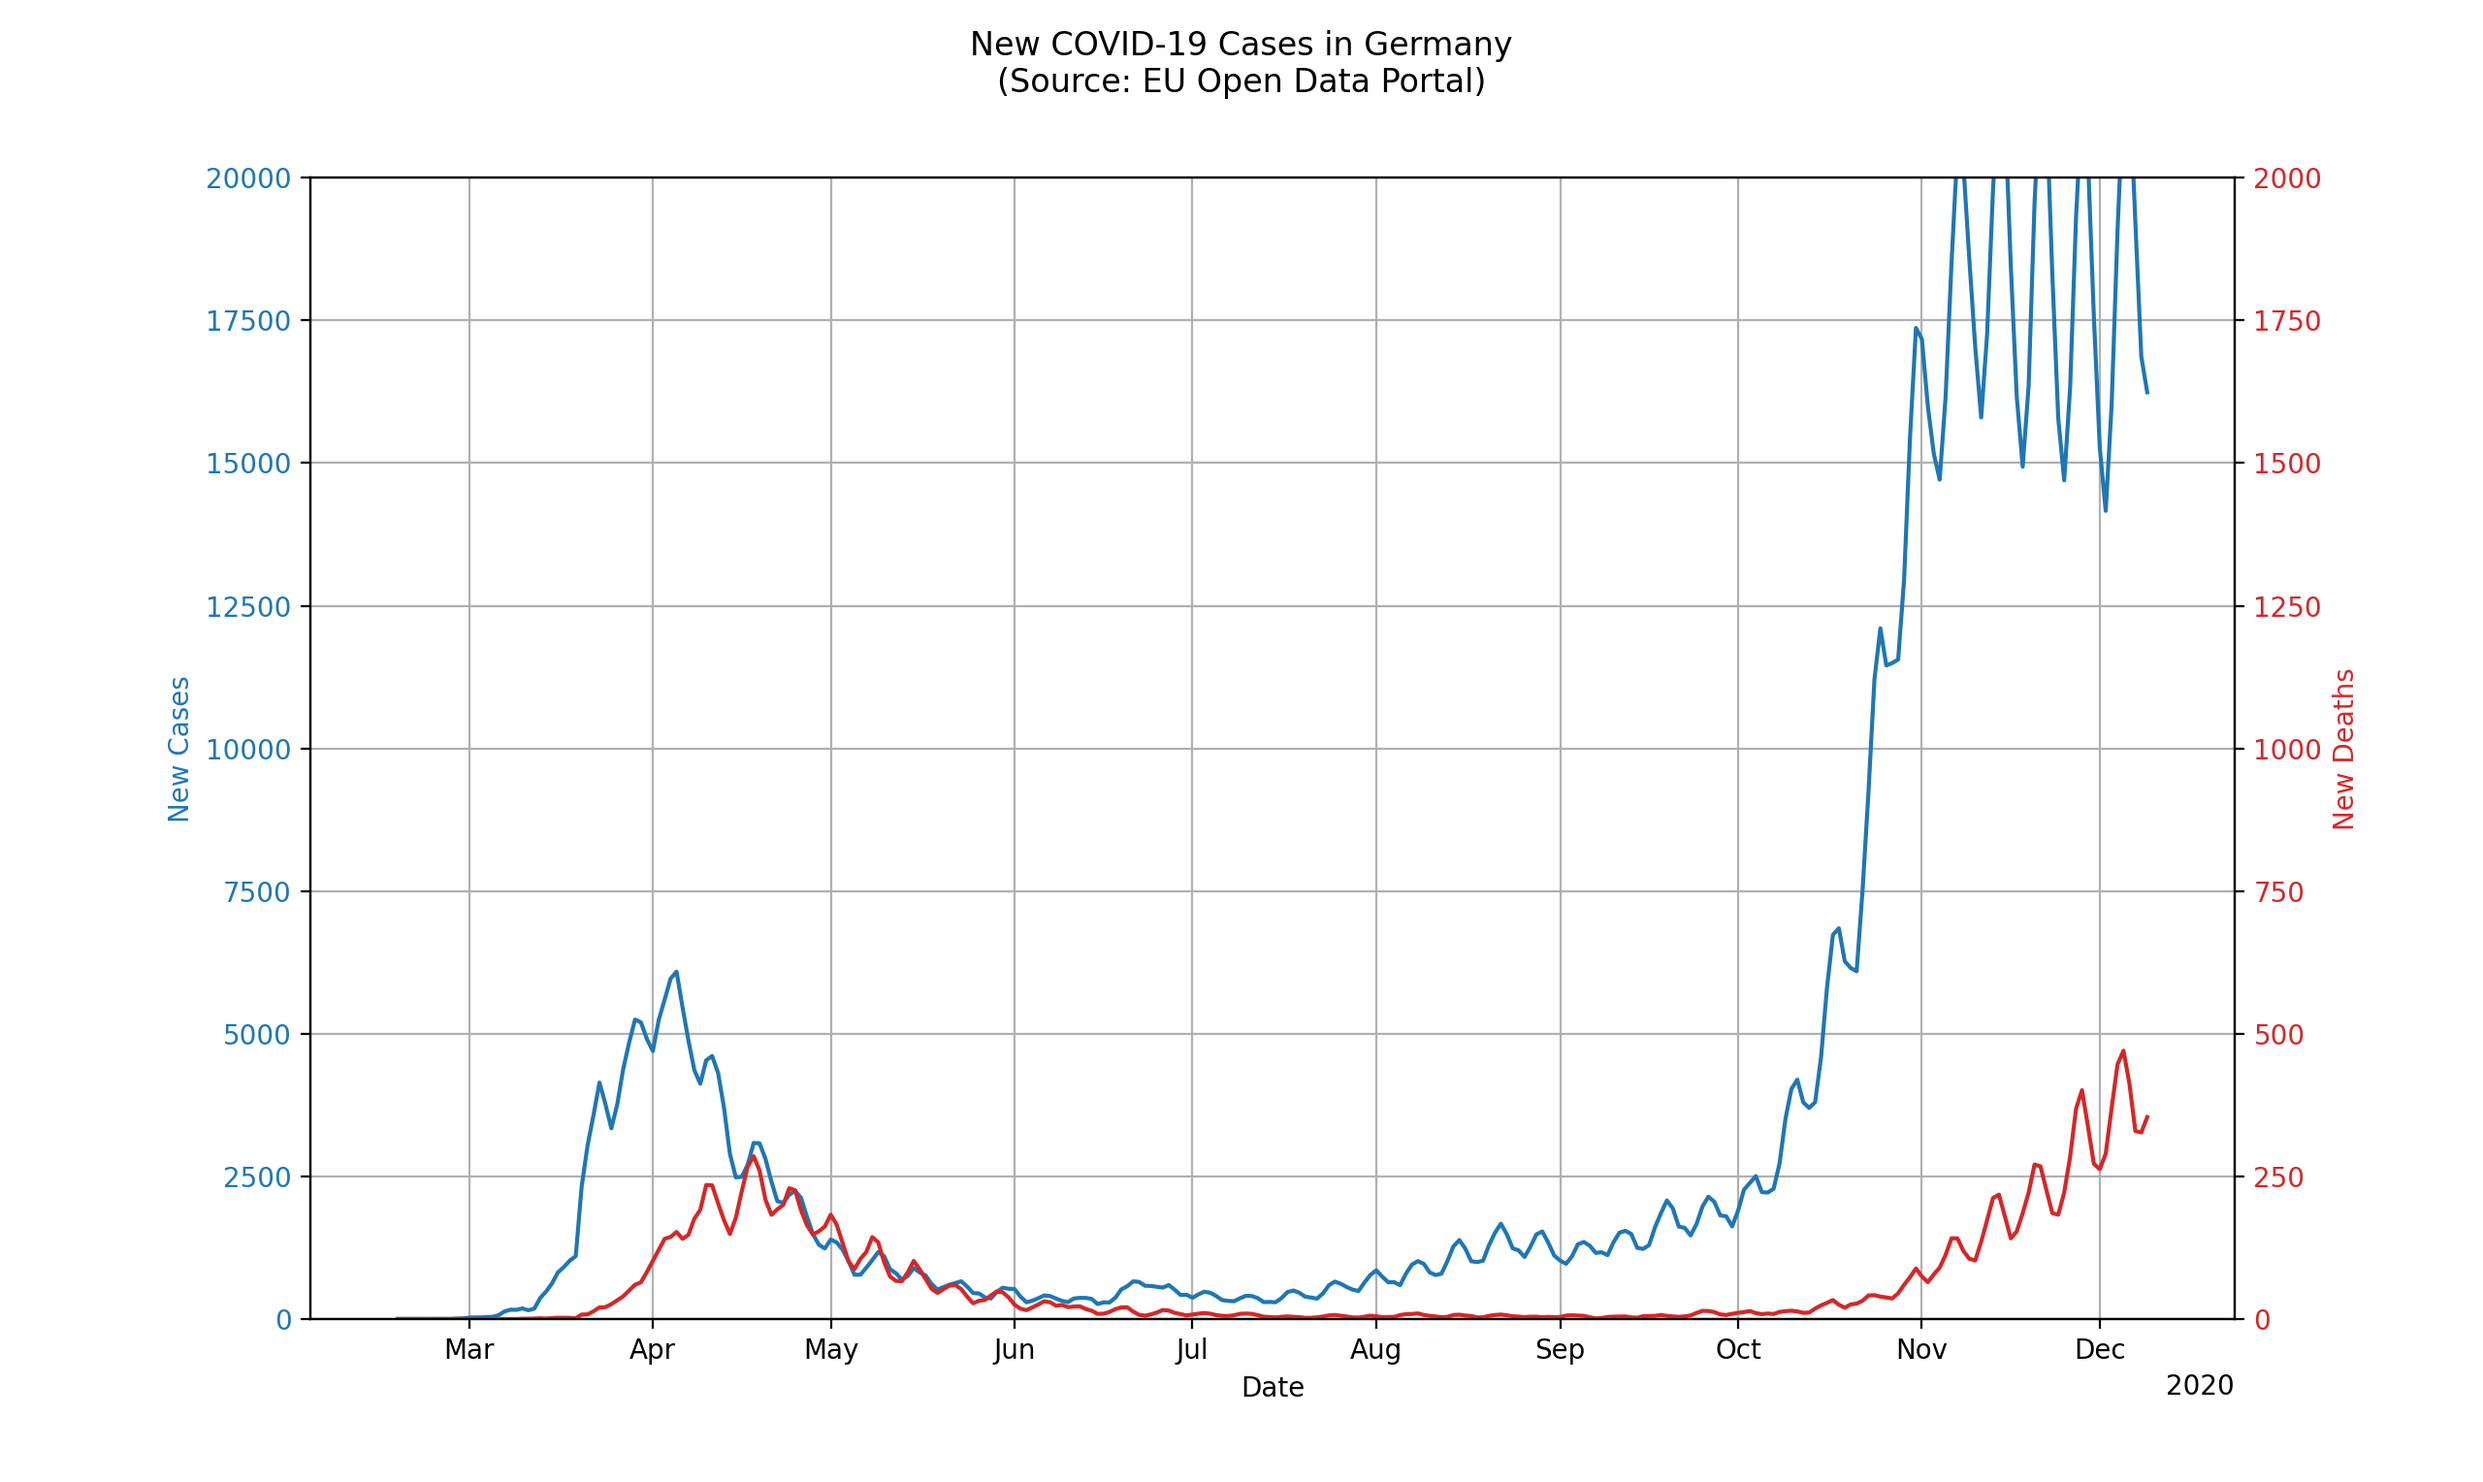
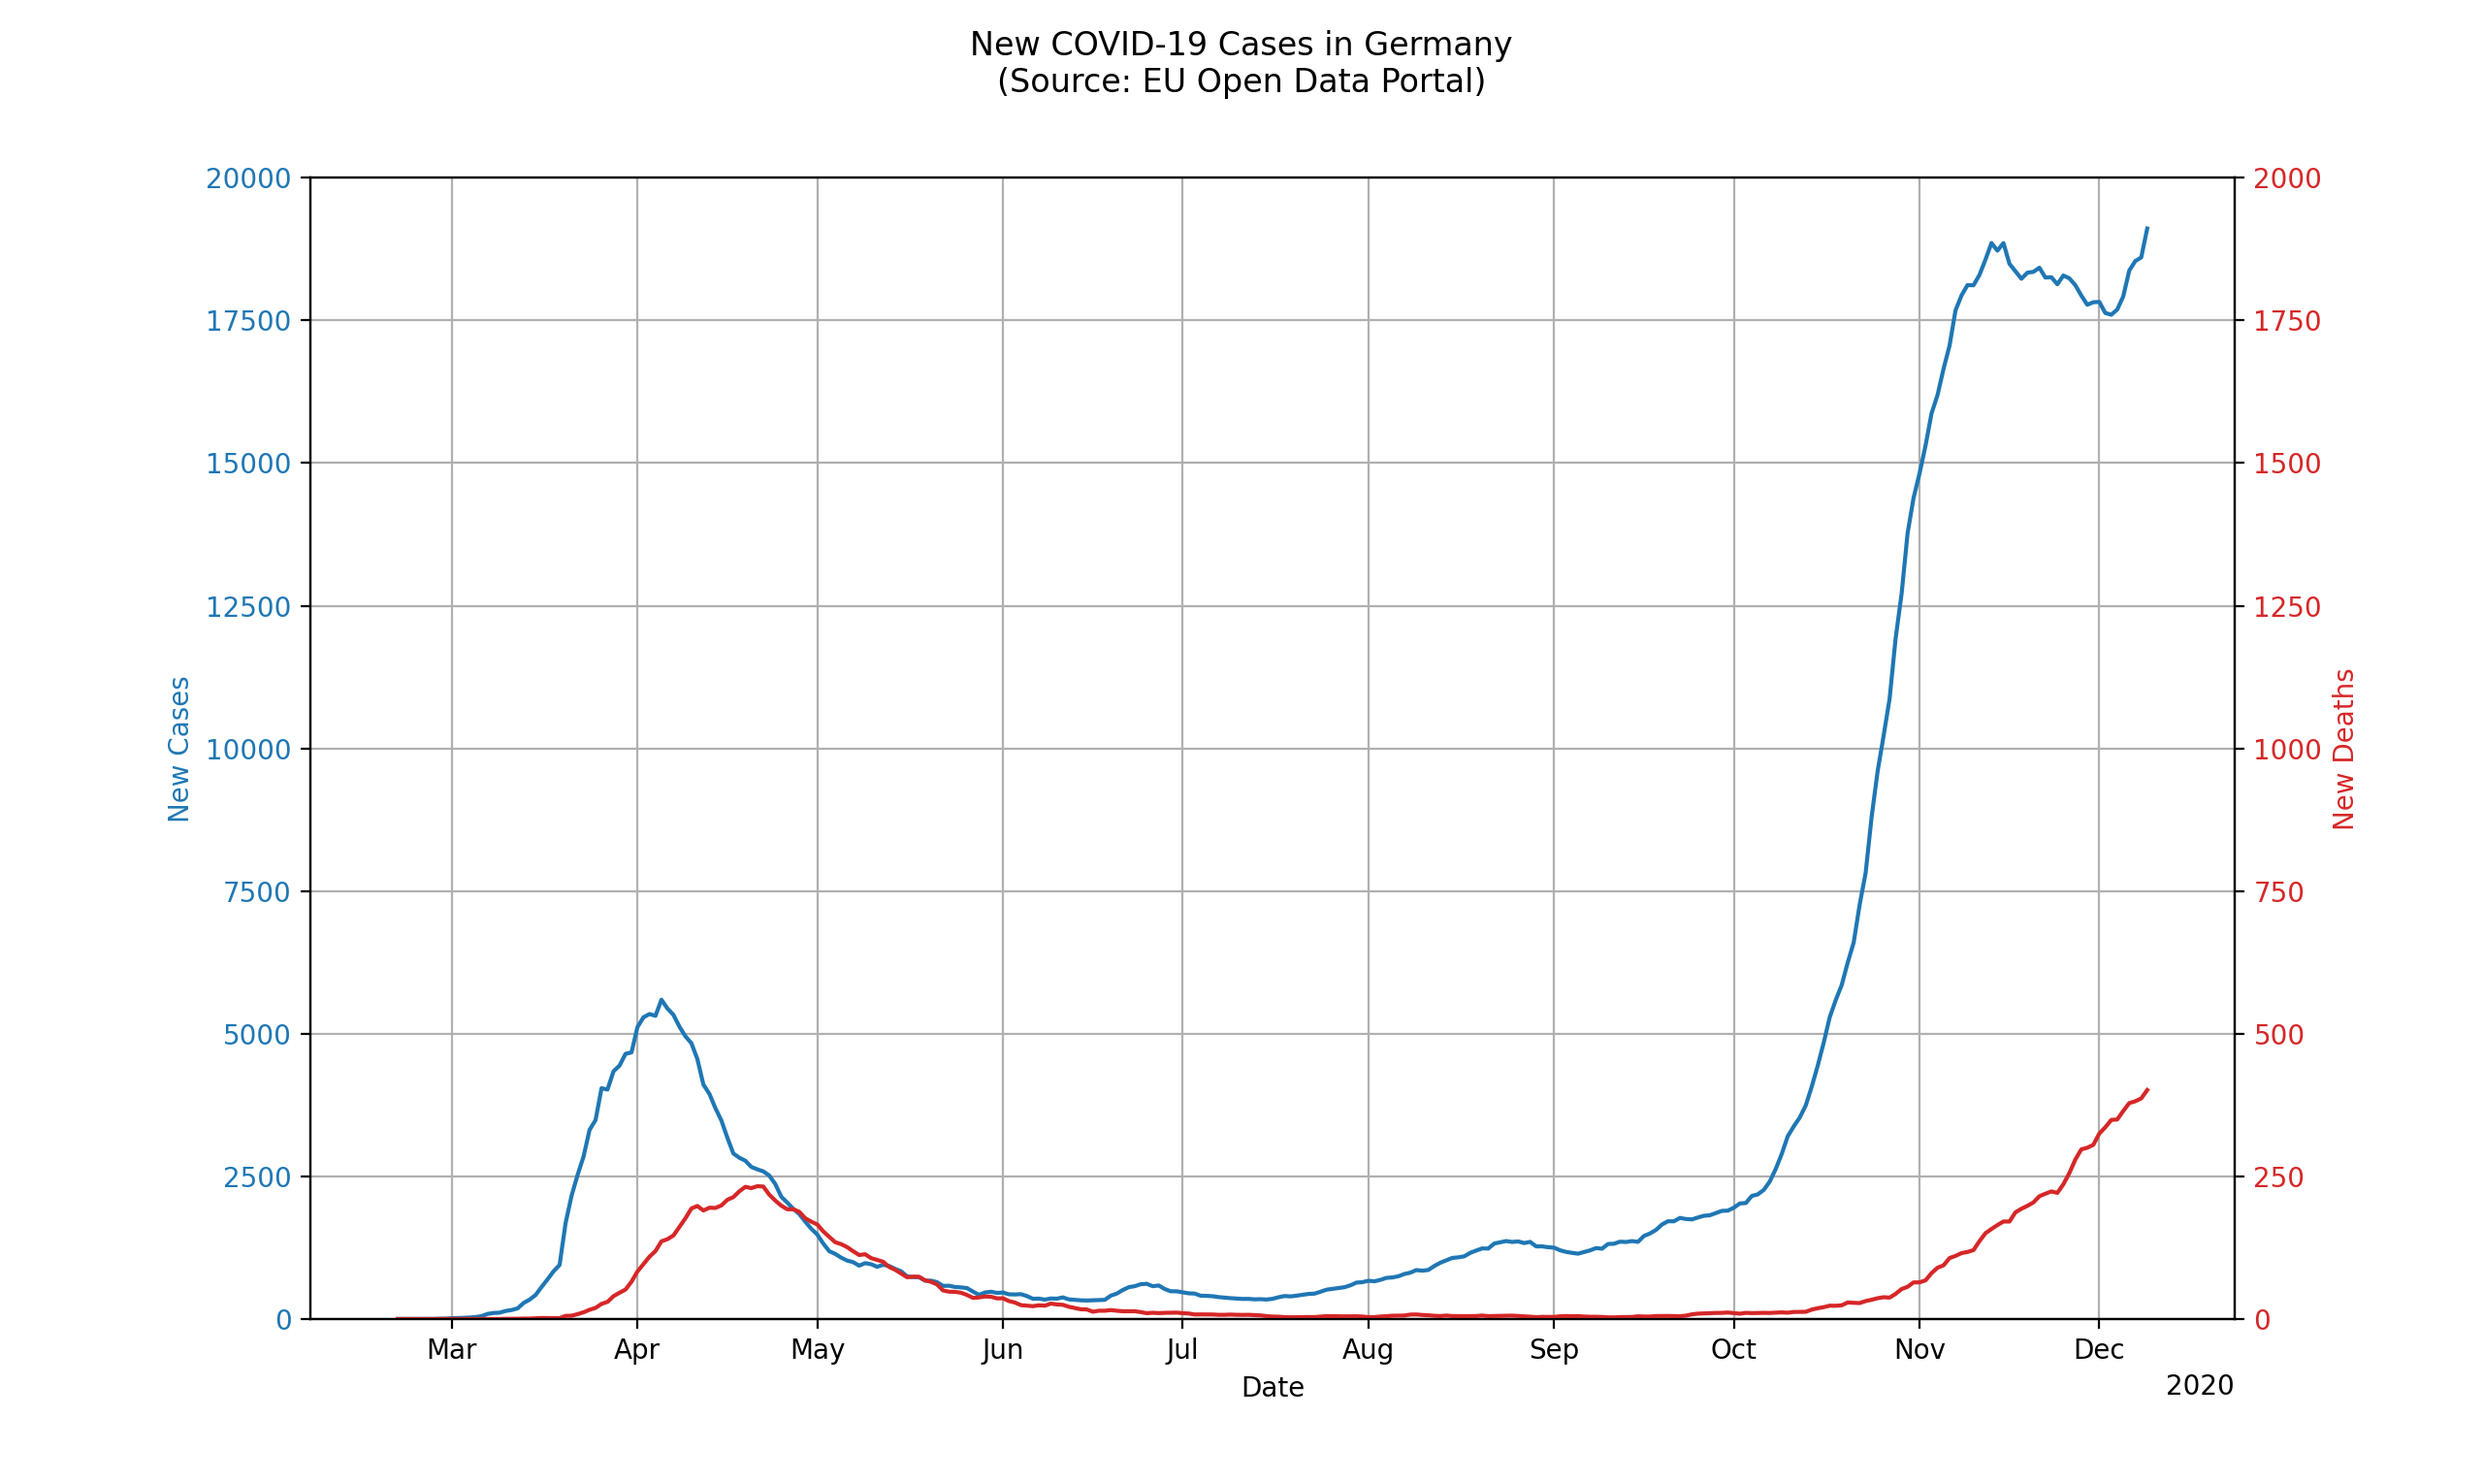
window for new cases updated

diff --git a/corona_analysis.py b/corona_analysis.py
@@ -35,7 +35,7 @@ def corona_cases_germany():
     t = []
     a = []
     b = []
-    window = 4
+    window = 7
     stride = 1
     for i in range(0, len(time) - (window-1), stride):
         t.append(time[i+window-1])

diff --git a/README.md b/README.md
@@ -98,7 +98,7 @@ The source code can be found in the function `positives_to_tests_germany` in `co
 ![](results/test_positive_ratio_germany.png)
 
 ### New COVID-19 cases/deaths per day in germany
-The source code can be found in the function `corona_cases_germany` in `corona_analysis.py`. This curve is smoothed by averaging each day with 3 days before (sliding window smoothing with a window size of 4 and a stride of 1).
+The source code can be found in the function `corona_cases_germany` in `corona_analysis.py`. This curve is smoothed by averaging each day with 3 days before (sliding window smoothing with a window size of 7 and a stride of 1).
 
 **Note**: One can see that (if scaled to match) the COVID-19 cases and the deaths are correlated by a delay of about 10 to 15 days.
 
